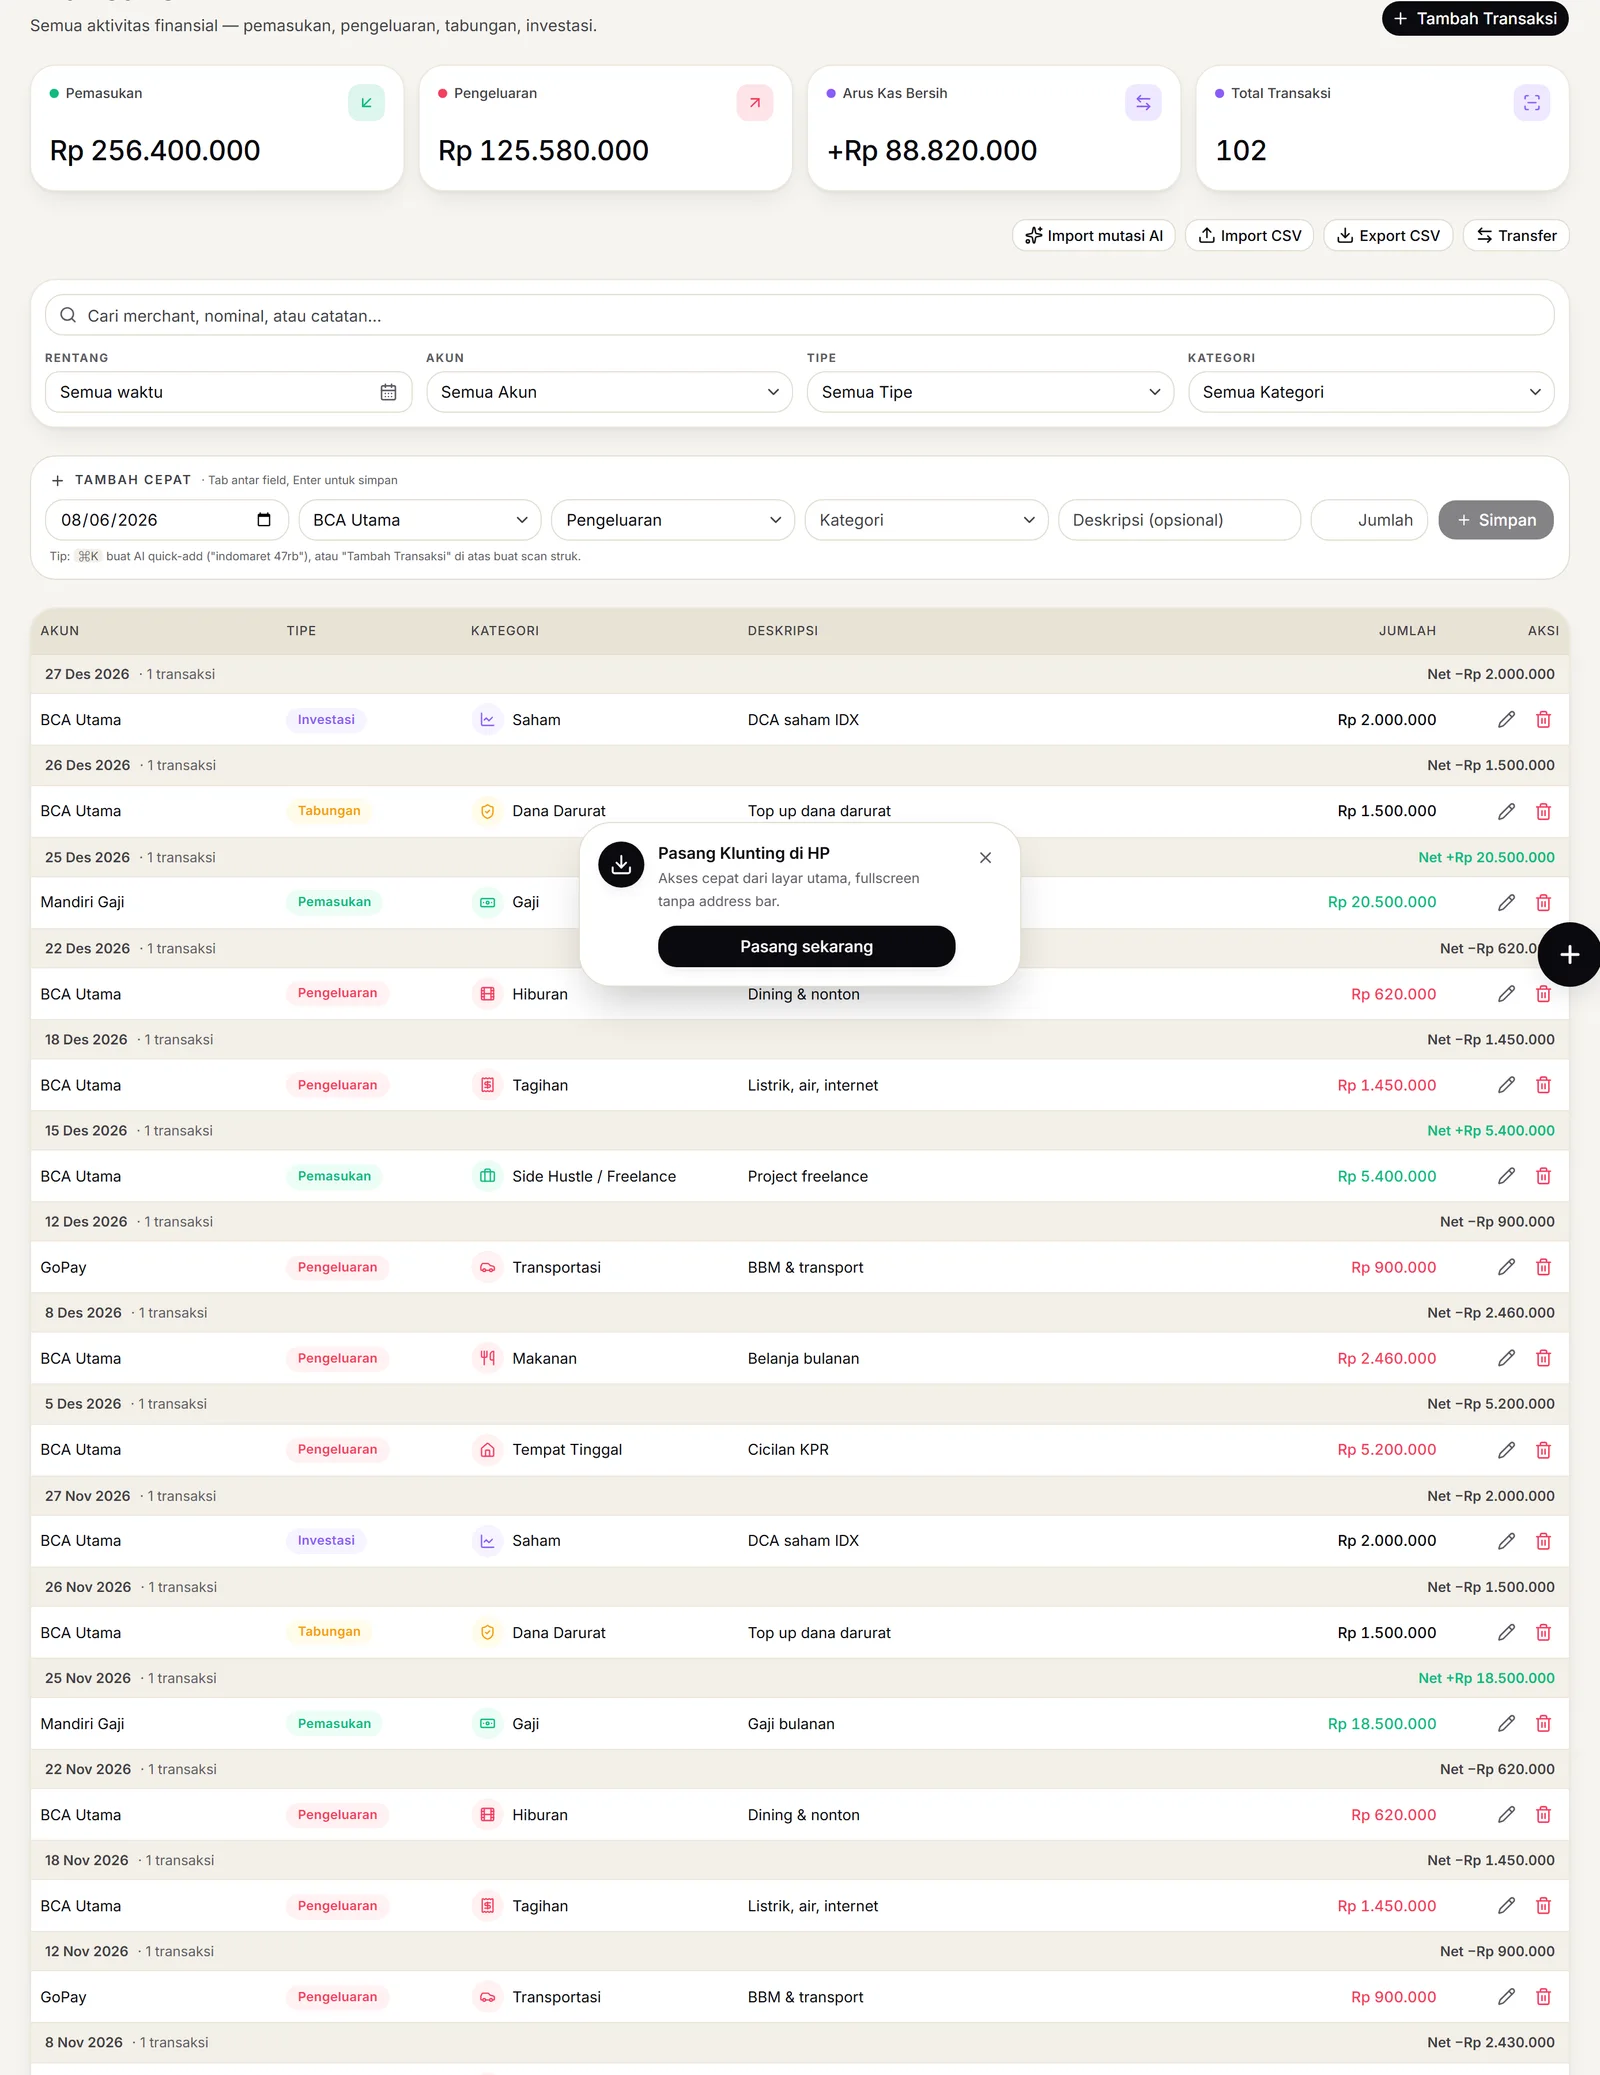
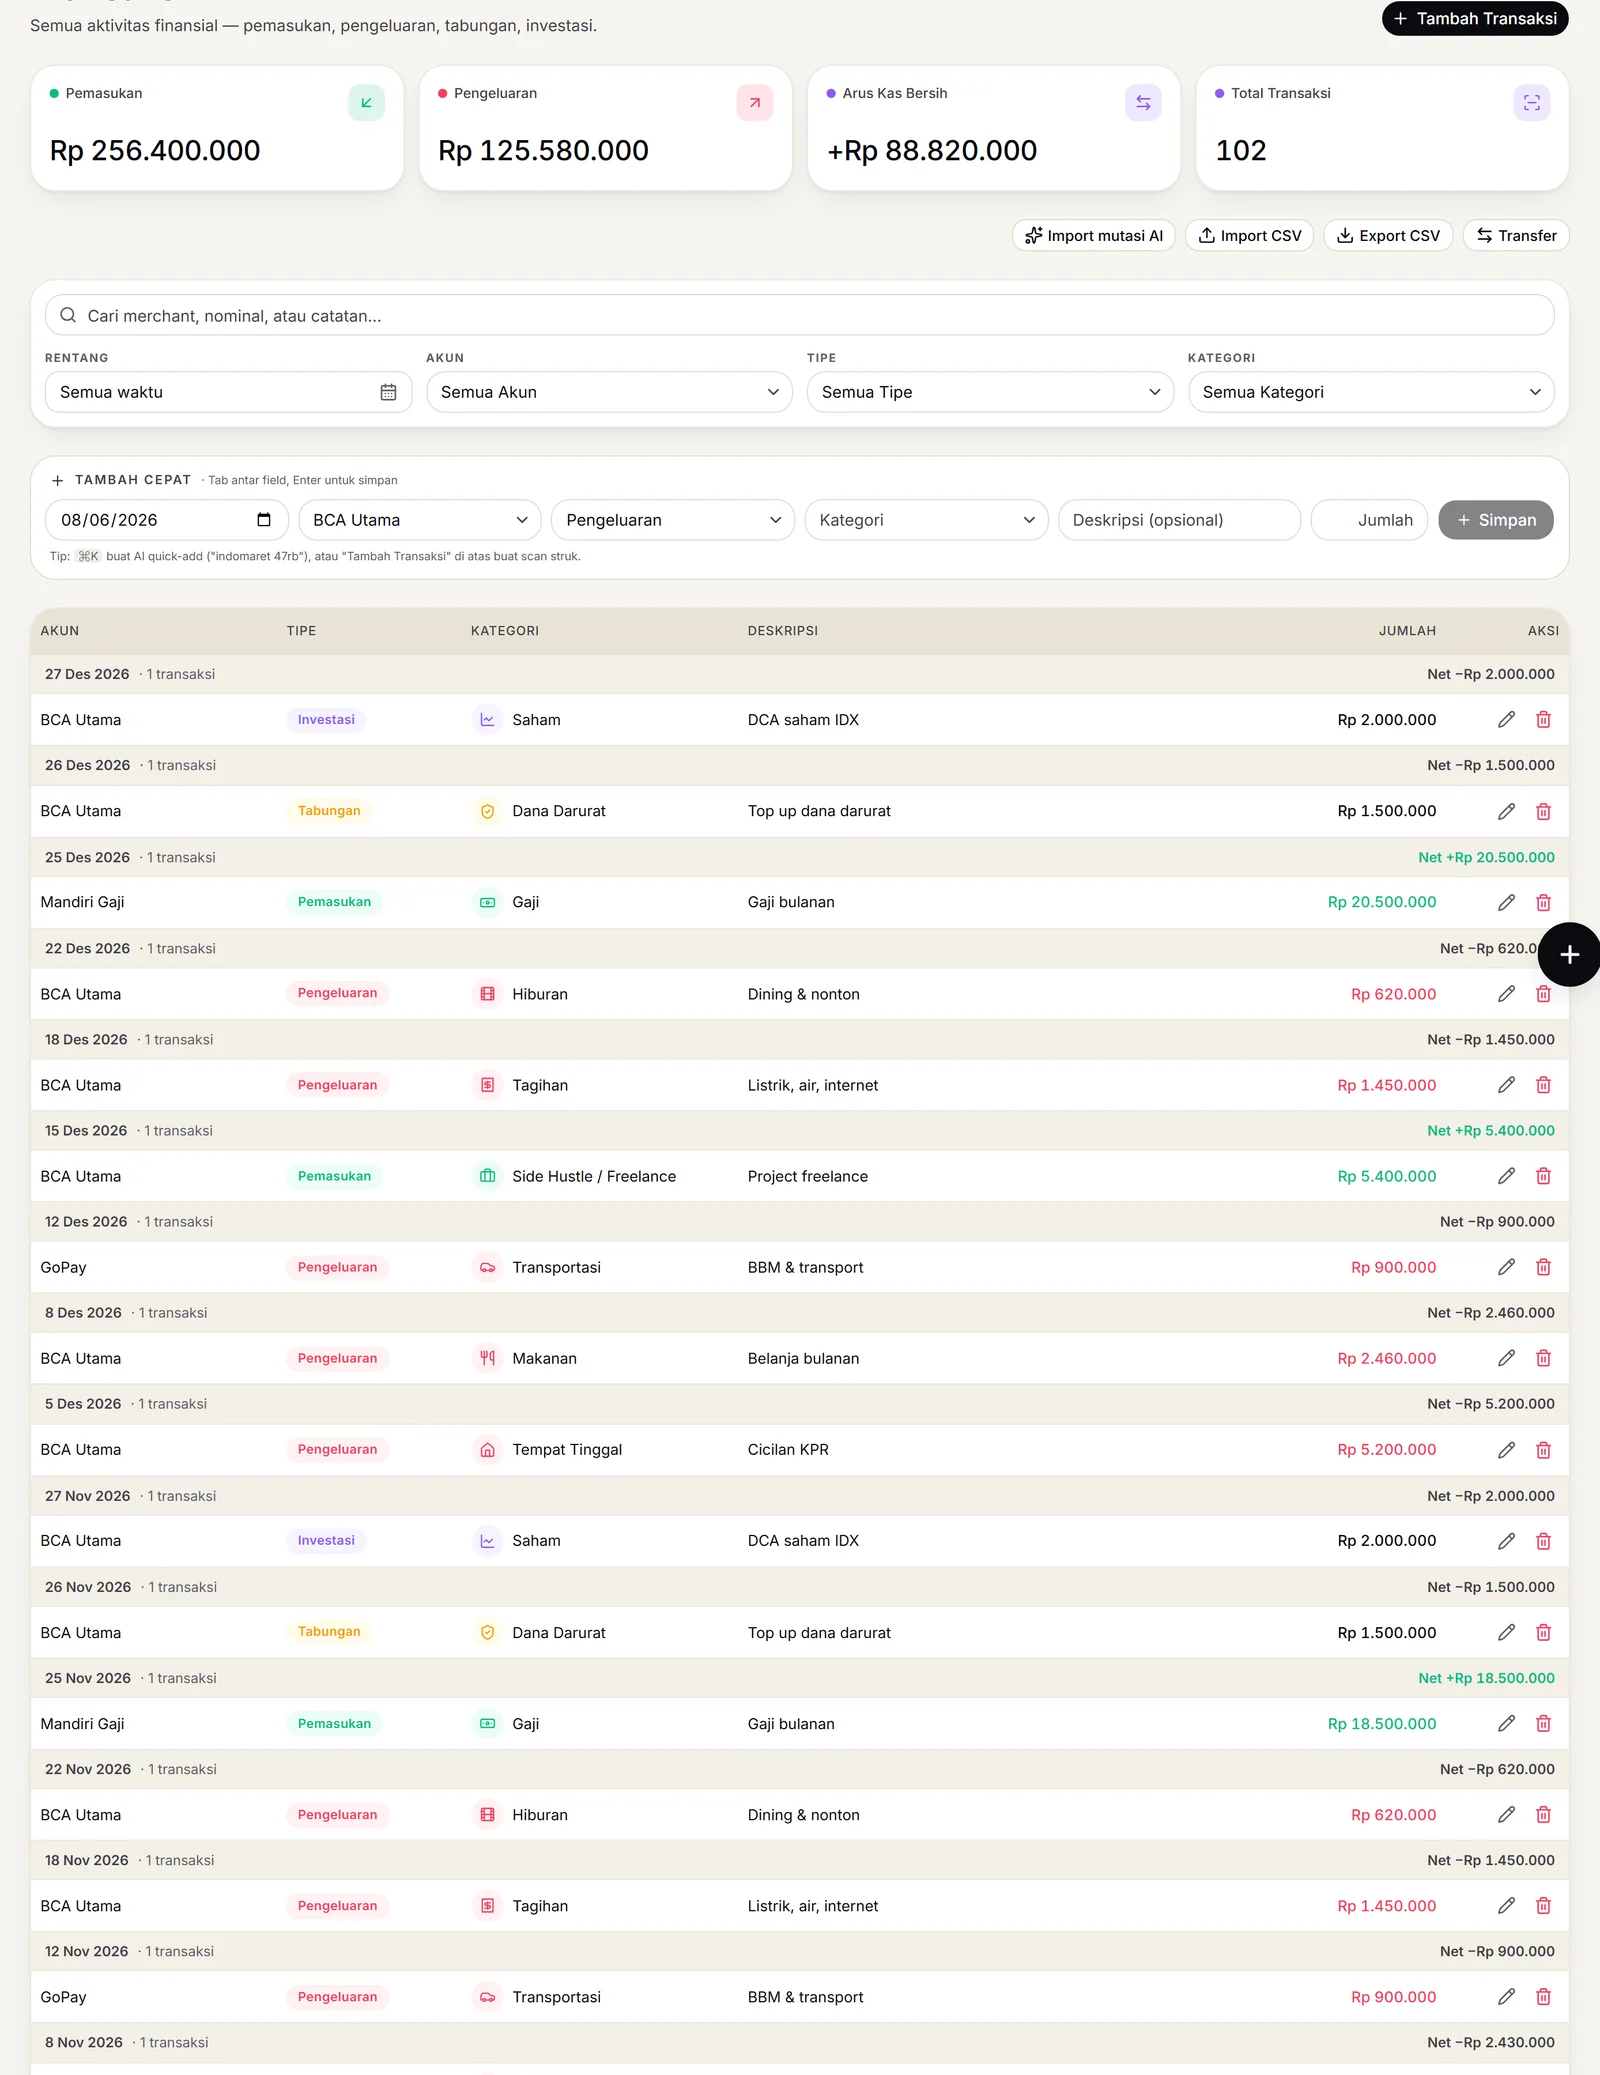
feat(features): real screenshots for keluarga + keamanan + fix demo AI-credit uuid
- keluarga: family value-prop + 'Buat keluarga -> Undang -> Kelola' flow shot.
- keamanan: Keamanan tab (ganti password, 2FA, aktivitas keamanan, PIN Lock).
  Now all 7 feature pages have real product screenshots.
- Demo fix: DEMO_USER_ID was not a valid UUID -> ai-credits server check threw
  'invalid input syntax for type uuid' on the demo dashboard. Set to a valid
  UUID so the demo renders cleanly (prod unaffected).
- Re-captured transactions/debts with the PWA install chip hidden. Shots via CDP
  real-time-wait capture.

Changed region(s): [[0.375, 0.401, 0.625, 0.4935]]

diff --git a/src/app/features/_data.ts b/src/app/features/_data.ts
@@ -124,7 +124,8 @@ export const FEATURES: Feature[] = [
     name: 'Berbagi dengan keluarga',
     tagline: 'Kelola keuangan bersama pasangan atau keluarga tanpa kehilangan privasi.',
     icon: Users,
-    shot: null,
+    shot: '/features/keluarga.webp',
+    shotAlt: 'Halaman keluarga Klunting: ajak pasangan/keluarga sampai 4 anggota, dengan alur Buat keluarga → Undang anggota → Kelola bareng',
     intro:
       'Keuangan rumah tangga sering melibatkan lebih dari satu orang. Paket Max memungkinkan berbagi tanpa harus saling membuka semua hal.',
     sections: [
@@ -141,7 +142,8 @@ export const FEATURES: Feature[] = [
     name: 'Keamanan & privasi',
     tagline: 'Data finansial adalah data sensitif. Kami memperlakukannya seperti itu.',
     icon: Shield,
-    shot: null,
+    shot: '/features/keamanan.webp',
+    shotAlt: 'Pengaturan keamanan Klunting: ganti password, autentikasi dua faktor (2FA), aktivitas keamanan, dan PIN Lock',
     intro:
       'Privasi bukan fitur tambahan, tapi fondasi. Model bisnis Klunting adalah langganan — bukan datamu.',
     sections: [

diff --git a/src/lib/demo/fixtures.ts b/src/lib/demo/fixtures.ts
@@ -3,7 +3,7 @@
  * All tables are keyed by table name and all rows share the same DEMO_USER_ID.
  */
 
-export const DEMO_USER_ID = 'demo-user-0000-0000-000000000000'
+export const DEMO_USER_ID = '00000000-0000-4000-8000-000000000000'
 
 export const DEMO_USER = {
   id: DEMO_USER_ID,